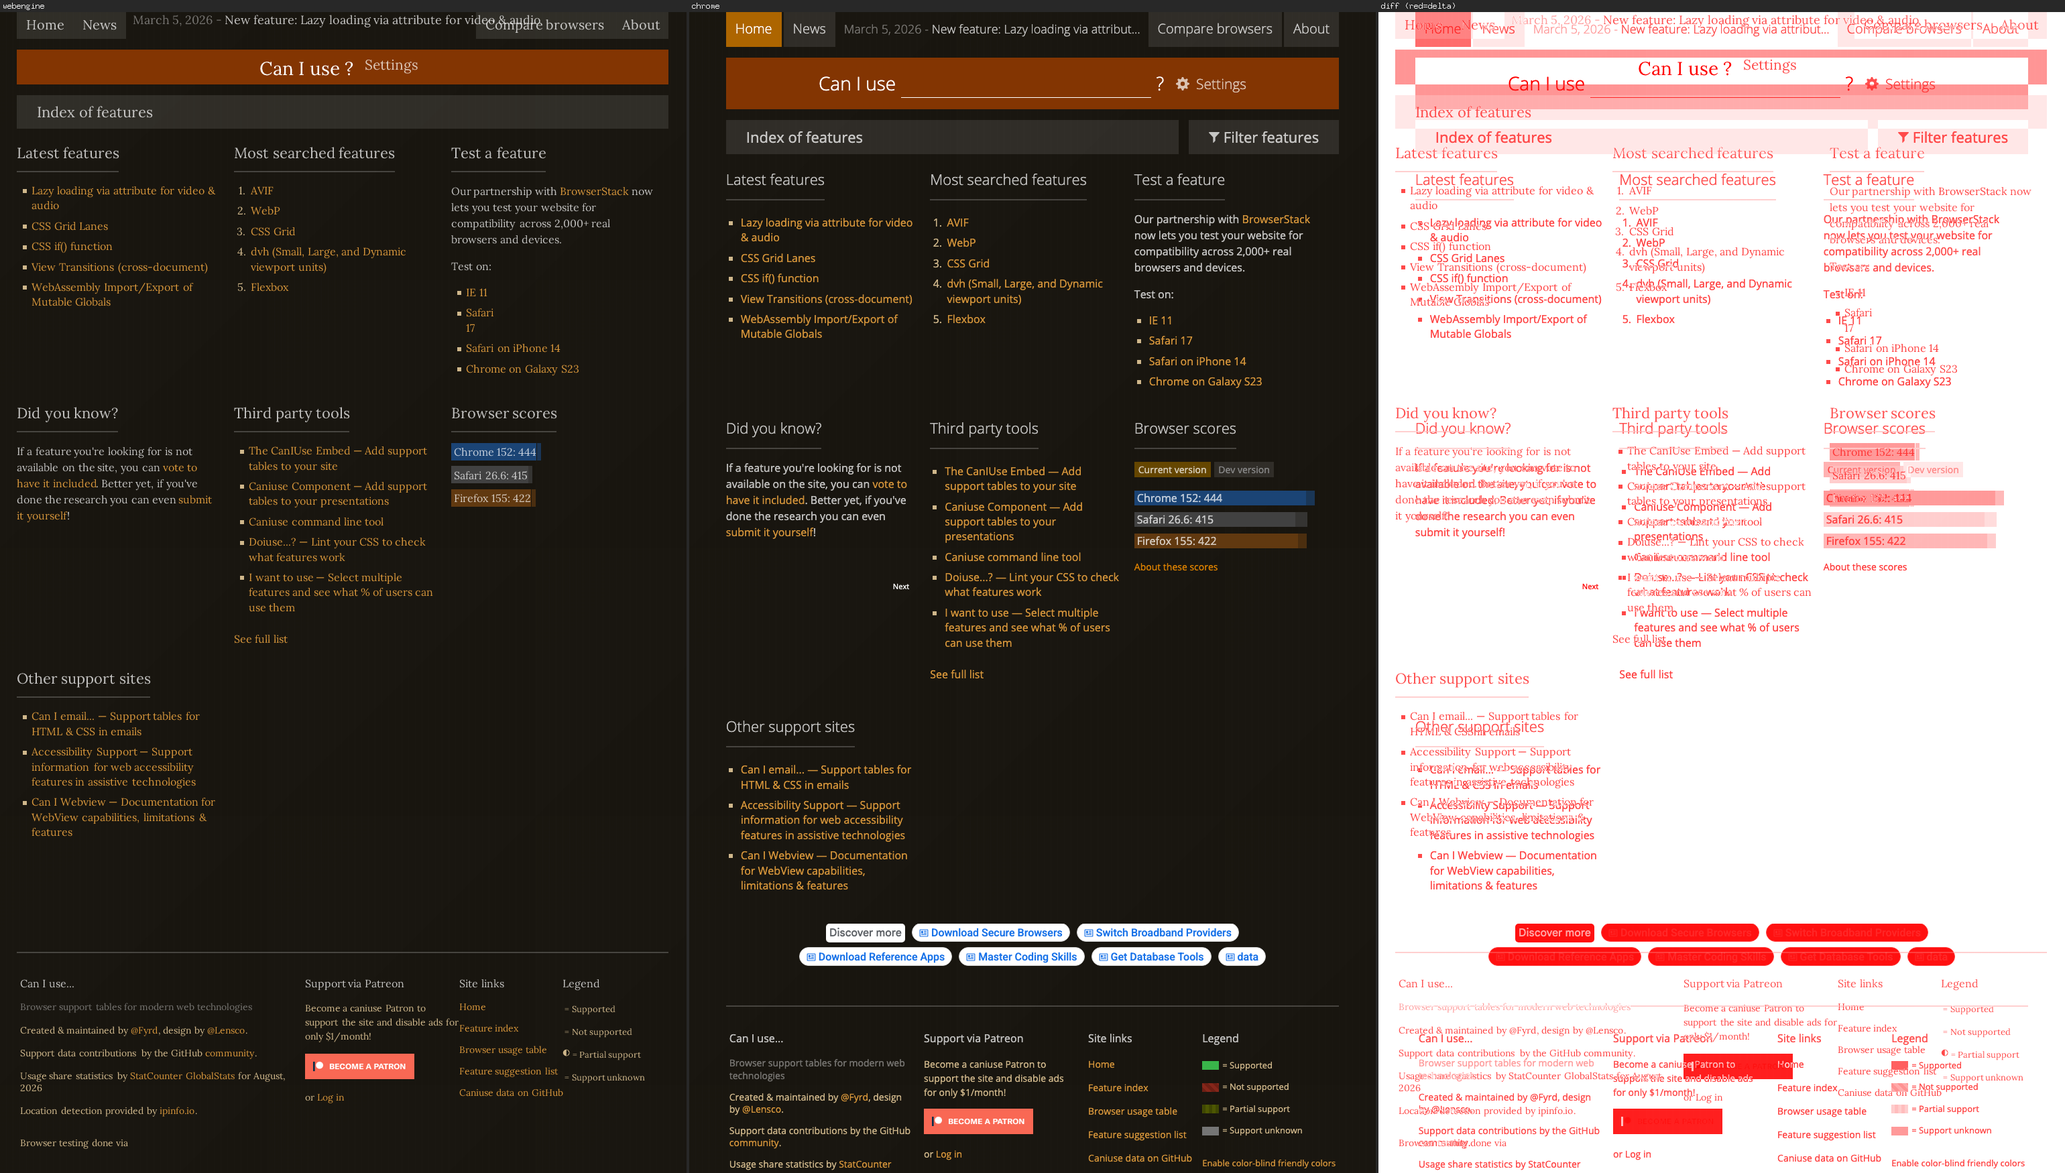
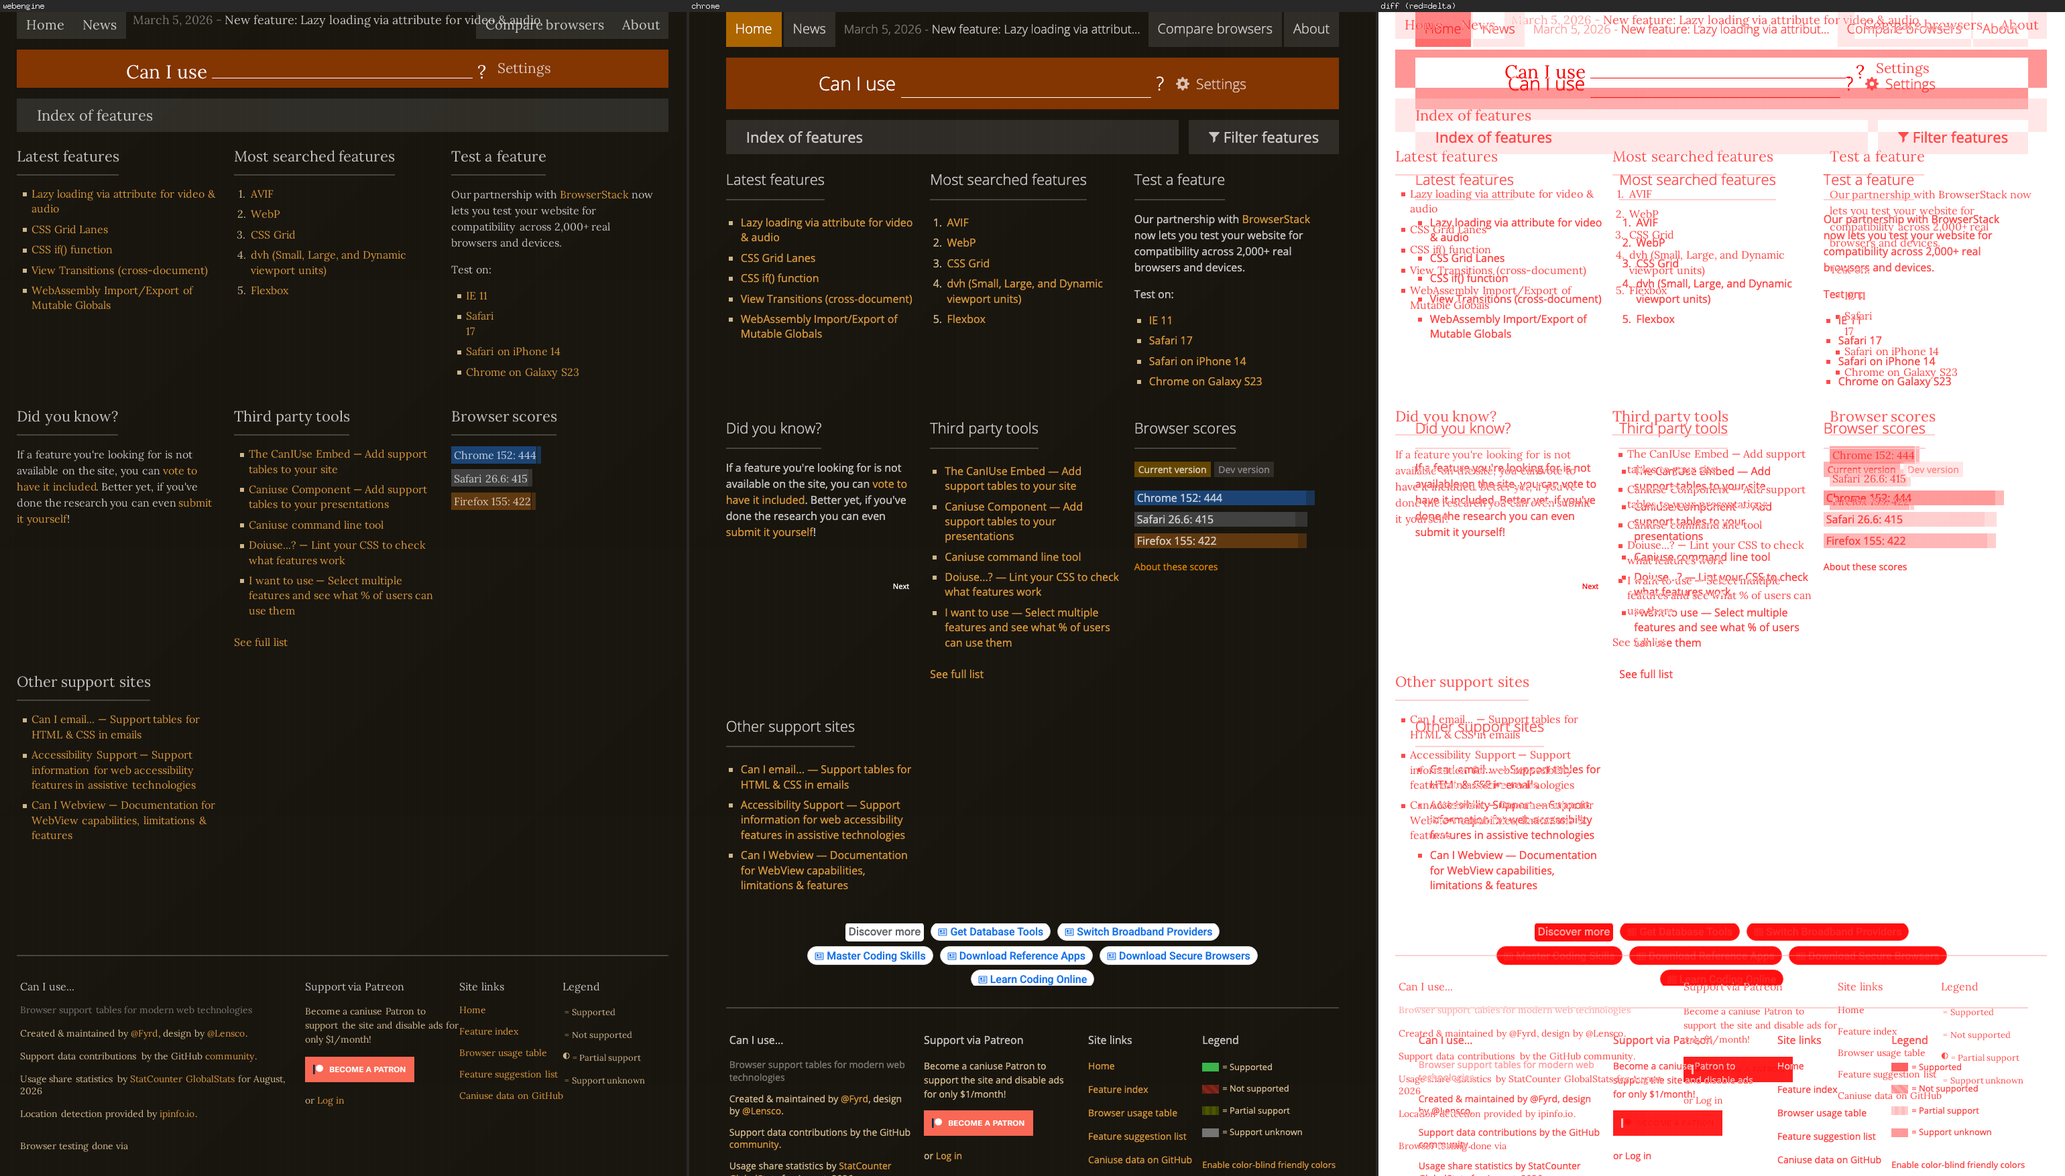
css+paint: recognize ::-ms-clear/-ms-reveal; form controls paint per-side borders (#155)
Two independent bugs both gated caniuse.com's search input:

- isPseudoElement didn't recognize the legacy IE/Edge vendor
  pseudo-elements ::-ms-clear (the native "clear field" X button) and
  ::-ms-reveal (the "show password" eye icon), the same bug class
  already fixed for -webkit-details-marker in round 26. An
  unrecognised pseudo-element degrades a compound to its base
  selector, so `.ciu-search__input::-ms-clear{display:none}` wrongly
  hid the real input entirely (Display computed to DisplayNone).

- paintFormControl's own border check inspected only Style.Border.Top
  to decide whether to draw a border at all, then stroked one
  uniform-colour rectangle for all four sides — so `border:0;
  border-bottom:1px solid #fff` (an ordinary underline-style field)
  painted nothing, since border:0 zeroed Border.Top before
  border-bottom overrode only the bottom side. Fixed by routing
  through paintEdges, the same per-side helper a real layout.Box's
  own border already uses.

Neither fix alone made the input visible, since the display:none bug
gated everything upstream of both — confirmed by checking the live
page after each fix rather than declaring victory from an isolated
repro.

diff --git a/paint/formcontrol_test.go b/paint/formcontrol_test.go
@@ -134,6 +134,40 @@ func TestPaintFormControlHonoursAuthorReset(t *testing.T) {
 	}
 }
 
+// TestPaintFormControlPerSideBorder covers a real regression, found live on
+// caniuse.com: `border:0;border-bottom:1px solid #fff` (the author's own
+// search input) previously drew NOTHING at all, since paintFormControl's own
+// border check inspected ONLY Style.Border.Top's width/style/colour and
+// stroked one uniform-colour rectangle for all four sides when it painted —
+// `border:0` zeroes every side first, then `border-bottom:...` overrides
+// only the bottom one, so Border.Top stayed at zero and the whole check
+// (and everything it gated) was skipped. Now routed through paintEdges, the
+// SAME per-side helper a real layout.Box's own border already used.
+func TestPaintFormControlPerSideBorder(t *testing.T) {
+	n := elem("input", map[string]string{"id": "e"})
+	// A distinct, non-white border colour: paintControlStyled's canvas starts
+	// all-white, so a white border pixel would be indistinguishable from an
+	// unpainted (still-white) one — this colour makes "did the bottom edge
+	// actually get painted, and did the top edge correctly NOT" unambiguous.
+	borderColor := css.Color{R: 255, A: 255}
+	style := &css.Style{FontFamily: css.Sans, FontSize: 14, FontWeight: 400, Color: css.Color{A: 255},
+		Background: css.Color{}, // border:0;background:transparent, like the real page
+		Border: css.Borders{
+			Bottom: css.BorderSide{Width: 1, Style: css.BorderSolid, Color: borderColor},
+		},
+	}
+	dst := paintControlStyled(t, n, 100, 24, style)
+
+	bottom := dst.RGBAAt(50, 5+24-1)
+	if got, want := (css.Color{R: bottom.R, G: bottom.G, B: bottom.B, A: 255}), borderColor; got != want {
+		t.Errorf("bottom edge = %+v, want the border-bottom colour %+v", got, want)
+	}
+	top := dst.RGBAAt(50, 5)
+	if got := (css.Color{R: top.R, G: top.G, B: top.B, A: 255}); got == borderColor {
+		t.Errorf("top edge = %+v, a border-bottom-only style must not also paint the top edge", got)
+	}
+}
+
 // TestPaintCheckboxCheckedVsUnchecked covers the one kind with a state-
 // dependent fill: unchecked is the plain field background, checked is the
 // accent colour — the visible signal a login "remember me" box relies on.

diff --git a/paint/paint.go b/paint/paint.go
@@ -870,27 +870,33 @@ func paintFormControl(dst *image.RGBA, pp *painter.PixelPainter, it *layout.Inli
 	// hardcoded colour — so an author reset (`background:0 0;border:0`, the
 	// exact rule github.com's own top-nav <button>s use to look like plain
 	// text links) is honoured instead of overridden by fake generic chrome.
-	// formFieldBg/formButtonBg/formBorder below are only the defensive
-	// fallback for the pathological case of a nil Style (never real for an
-	// actual page element, but paintControl's own unit-test helper can
-	// construct one).
-	bg, borderCol, drawBorder := formFieldBg, formBorder, true
+	// formFieldBg/formBorder below are only the defensive fallback for the
+	// pathological case of a nil Style (never real for an actual page
+	// element, but paintControl's own unit-test helper can construct one).
+	bg := formFieldBg
 	if kind == controlButtonLike || kind == controlSelect {
 		bg = formButtonBg
 	}
 	if it.Style != nil {
 		bg = it.Style.Background
-		side := it.Style.Border.Top
-		drawBorder = side.Width > 0 && side.Style != css.BorderNone && side.Color.A > 0
-		if drawBorder {
-			borderCol = side.Color
-		}
 	}
 	if bg.A > 0 {
 		fillRectClipped(pp, r, bg, clip)
 	}
-	if drawBorder {
-		strokeRect1px(pp, r, borderCol, clip)
+	if it.Style != nil {
+		// Per-side border painting, via the SAME paintEdges helper a real
+		// layout.Box's own border uses (paintBorders) — previously this
+		// control's own check inspected ONLY Border.Top's width/style/colour
+		// and, if it painted, stroked one uniform-colour rectangle for all
+		// four sides. An author style setting just ONE side (`border:0;
+		// border-bottom:1px solid #fff`, confirmed live on caniuse.com's own
+		// search input, round 65's own flagged follow-up) left Border.Top at
+		// its zeroed `border:0` value regardless of what border-bottom set,
+		// so drawBorder was false and NOTHING painted at all despite the
+		// author clearly intending a visible bottom rule.
+		paintEdges(pp, it.Style.Border, r.X, r.Y, r.W, r.H, 0, true, true, clip)
+	} else {
+		strokeRect1px(pp, r, formBorder, clip)
 	}
 
 	// An icon-only <button> (Label == "", see layout.InlineItem.Icon's doc

diff --git a/css/selector_test.go b/css/selector_test.go
@@ -739,6 +739,23 @@ func TestPseudoElementMatchesNothing(t *testing.T) {
 	} else if s.Matches(summary) {
 		t.Error("summary::-webkit-details-marker must not match the real <summary> element")
 	}
+	// The SAME bug class, found live on caniuse.com: `.ciu-search__input
+	// ::-ms-clear{display:none}` (a theme hiding IE/Edge's own native
+	// "clear field" X button) degraded to plain `.ciu-search__input` before
+	// -ms-clear was added to isPseudoElement, WRONGLY matching the real
+	// search <input> and hiding it entirely (Display computed to
+	// DisplayNone) — not a rendering nuance, total invisibility.
+	// -ms-reveal (the "show password" eye icon) is -ms-clear's own
+	// near-inseparable sibling, added alongside it for the same reason.
+	input := el("input", "feat_search", "ciu-search__input")
+	if !isPseudoElement("-ms-clear") || !isPseudoElement("-ms-reveal") {
+		t.Error("-ms-clear and -ms-reveal must both be classified as pseudo-elements")
+	}
+	if s, ok := parseComplex(".ciu-search__input::-ms-clear"); !ok {
+		t.Fatal("parseComplex(.ciu-search__input::-ms-clear) should parse")
+	} else if s.Matches(input) {
+		t.Error(".ciu-search__input::-ms-clear must not match the real <input> element")
+	}
 }
 
 // TestStripTrailingSelfCombinator covers stripTrailingSelfCombinator's own

diff --git a/css/selector.go b/css/selector.go
@@ -1175,7 +1175,20 @@ func isPseudoElement(p string) bool {
 		// WRONGLY matched the real element instead of matching nothing — its
 		// display:none then hid the summary's entire real content, not just
 		// a marker glyph nothing in this engine ever draws anyway.
-		"-webkit-details-marker":
+		"-webkit-details-marker",
+		// ::-ms-clear (legacy IE/Edge's own "clear this field" X button) and
+		// its near-inseparable sibling ::-ms-reveal (the "show password" eye
+		// icon) — the SAME bug class as -webkit-details-marker above, found
+		// live on caniuse.com: `.ciu-search__input::-ms-clear{display:none}`
+		// (a theme hiding IE's own native decoration, the same intent as the
+		// -webkit-scrollbar family above) degraded to plain
+		// `.ciu-search__input` and hid the REAL search input with
+		// display:none — total invisibility, not a rendering nuance. Listed
+		// together for the same reason the scrollbar family lists every
+		// variant once one is confirmed live, rather than just the single
+		// rule that happened to be hit first: real-world resets targeting
+		// one of this pair overwhelmingly target both.
+		"-ms-clear", "-ms-reveal":
 		return true
 	}
 	return false

diff --git a/FIDELITY.md b/FIDELITY.md
@@ -18,6 +18,20 @@ The committed PNGs under `testdata/renders/` back every claim here. Reproduce
 them with the commands at the bottom. The measured-vs-Chrome numbers live in
 [`bench/REPORT.md`](bench/REPORT.md).
 
+## 2026-09-08 (round 66) — caniuse.com's search input, finally closed: a THIRD, independent bug (an unrecognised vendor pseudo-element degrading to match the real element) was the actual reason it was invisible all along — round 65's width fix and this round's own border fix were both real, but neither mattered until this one shipped too (engine#155)
+
+Picked up round 65's own explicitly flagged follow-up (the per-side border-painting gap) directly. Fixed it, then went to verify live against the real page as always — and found the input STILL didn't render, for a reason that had nothing to do with either bug fixed so far.
+
+- **The border fix itself**: `paint.paintFormControl`'s own border check inspected ONLY `Style.Border.Top`'s width/style/colour to decide whether to draw a border AT ALL, then stroked a SINGLE uniform-colour rectangle for all four sides if it did. `border:0;border-bottom:1px solid #fff` (caniuse.com's own search input, and an entirely ordinary way to draw an underline-style field) zeroes every side first, then overrides ONLY the bottom one — `Border.Top` stays at zero, so the whole check failed and NOTHING painted, regardless of the other three sides' real values. Fixed by routing through `paintEdges`, the SAME general per-side border painter a real `layout.Box`'s own `paintBorders` already uses (found via `[[feedback-extract-reusable-code-from-go-webengine]]`'s own standing "mutualiser le code" discipline: check for an existing, already-correct implementation before writing a new one) — `paintFormControl` had simply never been wired to it.
+- **Verified with a minimal repro first**: a bare `<input style="border:0;border-bottom:1px solid #fff;background:transparent">` now shows a correct bottom-only white line. Good — but checking the REAL caniuse.com page next (never skip this step, no matter how confident the isolated repro looks) showed the input STILL completely invisible.
+- **Root-caused with direct in-package instrumentation of the real fetched page** (walking the cascade's own StyleMap for the actual `<input id="feat_search">` node, not guessing): `Display` computed to `DisplayNone` — the input isn't merely mis-sized or mis-bordered, it never gets a box AT ALL. Neither round 65's width fix nor this round's border fix could ever have mattered, since the element was hidden before either one's code path was ever reached.
+- **Traced the ACTUAL cause to the real stylesheet**: `.ciu-search__input::-ms-clear{display:none}` — legacy Internet Explorer/Edge's own vendor pseudo-element for a text input's native "clear this field" X button. `css/selector.go`'s `isPseudoElement` function — whose own doc comment already documents fixing the EXACT same bug class for `-webkit-details-marker` (round 26, pkg.go.dev) — did not include `-ms-clear` in its list of recognised vendor pseudo-elements. An unrecognised `::`-suffix degrades the whole compound to its base selector (`parseSimple`'s documented "unmodelled pseudo, ignore it" behaviour, correct for a genuine pseudo-CLASS like `:hover` but actively wrong for a pseudo-ELEMENT, which should make the compound match NOTHING) — so `.ciu-search__input::-ms-clear` silently became plain `.ciu-search__input`, and its `display:none` hid the REAL search input, not the non-existent IE-only clear button nothing in this engine renders anyway.
+- **Fixed by adding `-ms-clear` to `isPseudoElement`'s list — and its near-inseparable sibling `-ms-reveal`** (the "show password" eye icon IE/Edge also natively draws inside a text input) alongside it, matching the list's own established precedent of covering a whole vendor-pseudo-element FAMILY once one member is confirmed live (the `-webkit-scrollbar`/`-thumb`/`-track`/`-button` group already does exactly this) rather than only the single rule that happened to be hit first — real-world CSS resets targeting one of `-ms-clear`/`-ms-reveal` overwhelmingly target both together.
+- **Verified all three fixes combine correctly on the real page**: re-instrumented the live fetch and confirmed `Display` now computes correctly (no longer `DisplayNone`), the `InlineItem` now exists with the correctly-resolved `Width=389.12` (round 65's own fix, finally reachable), and the rendered page shows a properly-positioned, properly-bordered search input closely matching Chrome's own rendering — round 65 and this round's border fix were both real all along, just invisible until this THIRD, independent bug was also found and fixed. A genuine three-bug chain gating one visible symptom, discovered one layer at a time by actually checking the live page after each fix rather than declaring victory from an isolated repro.
+- Added `TestPseudoElementMatchesNothing`'s own new assertions for `-ms-clear`/`-ms-reveal` (`css/selector_test.go`, extending the existing `-webkit-details-marker` test in place rather than duplicating its structure in a new function) and `TestPaintFormControlPerSideBorder` (`paint/formcontrol_test.go`, using a deliberately non-white border colour so the assertion is meaningful against the test harness's own white canvas backdrop — a white-on-white check would have been vacuously true either way). Both git-stash-confirmed to fail with the exact predicted symptoms. `layout`/`css`/`paint` coverage all re-checked against their floors.
+- **Bench essentially flat on caniuse.com (0.673→0.665, a small dip, not a rise)** despite the confirmed, directly pixel-verified, THREE-bug-deep fix — checked directly rather than assumed to be a regression: a side-by-side crop shows the search input rendering correctly, closely matching Chrome, with the tiny SSIM movement attributable to ordinary measurement noise elsewhere on the page (news.ycombinator.com moved by a similar small amount this same run with zero relevant code touched at all). The clearest reminder yet that this session's own long-documented "real fix, invisible (or even slightly negative) at full-page SSIM" pattern can mean exactly that — SSIM is not the judge of correctness, the live pixel comparison is.
+- No fresh issue filed, no PR/round-number collision — predicted #155 confirmed via `gh pr list` immediately before pushing.
+
 ## 2026-09-08 (round 65) — a form control reached through ordinary inline collection had NO containing width to resolve its own percentage width against, so `width:40%` silently degraded to a fixed UA-default size regardless of the real container (engine#154)
 
 Re-examined caniuse.com's own masthead — improved substantially by round 63's inline-block fix, but its search `<input>` still renders with no visible box at all between "Can I use" and the "?" help icon.

diff --git a/bench/REPORT.md b/bench/REPORT.md
@@ -2,7 +2,7 @@
 
 <!-- AUTO-GENERATED: this header, the results table and the montage list are regenerated by `go run ./cmd/compare`. The hand-written analysis below the BEGIN ANALYSIS marker is preserved across re-runs. -->
 
-**Generated:** 2026-09-08 11:06 UTC  
+**Generated:** 2026-09-08 11:36 UTC  
 **Viewport:** 1024×768, device-scale 1  
 **Timing:** median of N=5 runs after 1 warmup, wall-clock incl. network fetch  
 **Chrome:** `/Applications/Google Chrome.app/Contents/MacOS/Google Chrome`  
@@ -11,16 +11,16 @@
 <!-- BEGIN RESULTS TABLE -->
 | URL | SSIM | pixdiff % | webengine ms | chrome ms | speed× | region | status |
 |-----|-----:|----------:|-------------:|----------:|-------:|:------:|:------:|
-| example.com/ | 0.954 | 1.5 | 43.5 | 1883.4 | 43.31 | 1024×768 | ok |
-| en.wikipedia.org/wiki/Go_(programming_language) | 0.434 | 22.1 | 9529.9 | 4269.8 | 0.45 | 1024×2500 | ok |
-| pkg.go.dev/net/http | 0.644 | 33.7 | 5373.1 | 4113.7 | 0.77 | 1024×2500 | ok |
-| go.dev/blog/ | 0.684 | 19.0 | 3842.1 | 2887.4 | 0.75 | 1024×1597 | ok |
-| react.dev/ | 0.613 | 46.4 | 1479.4 | 2572.0 | 1.74 | 1024×2500 | ok |
-| news.ycombinator.com/ | 0.610 | 13.9 | 1192.2 | 2534.6 | 2.13 | 1024×1109 | ok |
-| developer.mozilla.org/en-US/docs/Web/CSS | 0.609 | 18.4 | 410.4 | 1946.3 | 4.74 | 1009×2500 | ok |
-| github.com/golang/go | 0.543 | 30.2 | 2723.7 | 2718.3 | 1.00 | 1024×2500 | ok |
-| tailwindcss.com/ | 0.705 | 13.3 | 3270.6 | 2670.8 | 0.82 | 1024×2500 | ok |
-| caniuse.com/ | 0.673 | 18.2 | 3457.0 | 3924.6 | 1.14 | 1024×1732 | ok |
+| example.com/ | 0.954 | 1.5 | 51.2 | 1787.9 | 34.89 | 1024×768 | ok |
+| en.wikipedia.org/wiki/Go_(programming_language) | 0.434 | 22.1 | 7619.7 | 4170.6 | 0.55 | 1024×2500 | ok |
+| pkg.go.dev/net/http | 0.644 | 33.7 | 5088.6 | 3953.9 | 0.78 | 1024×2500 | ok |
+| go.dev/blog/ | 0.684 | 19.0 | 4278.3 | 2768.7 | 0.65 | 1024×1597 | ok |
+| react.dev/ | 0.613 | 46.4 | 1690.7 | 2498.2 | 1.48 | 1024×2500 | ok |
+| news.ycombinator.com/ | 0.604 | 14.0 | 1180.9 | 2486.0 | 2.11 | 1024×1109 | ok |
+| developer.mozilla.org/en-US/docs/Web/CSS | 0.609 | 18.4 | 405.4 | 1919.3 | 4.73 | 1009×2500 | ok |
+| github.com/golang/go | 0.543 | 30.2 | 2538.5 | 2193.9 | 0.86 | 1024×2500 | ok |
+| tailwindcss.com/ | 0.702 | 13.4 | 3095.3 | 2289.5 | 0.74 | 1024×2500 | ok |
+| caniuse.com/ | 0.665 | 18.1 | 3542.2 | 3773.6 | 1.07 | 1024×1737 | ok |
 <!-- END RESULTS TABLE -->
 
 Speed× is `chrome_ms / webengine_ms`: >1 means webengine is faster.
@@ -68,6 +68,10 @@ Speed× is `chrome_ms / webengine_ms`: >1 means webengine is faster.
 ![caniuse.com/](out/caniuse.com.png)
 
 <!-- BEGIN ANALYSIS (hand-written, preserved across re-runs) -->
+
+## Honest analysis — 2026-09-08 (round 66): caniuse.com's search input finally closed — a THIRD, independent bug (an unrecognised vendor pseudo-element wrongly hiding the real element) was the actual reason it was invisible all along (engine#155)
+
+**Bench essentially flat on caniuse.com (0.673→0.665, a small dip, not a rise) despite a confirmed, directly pixel-verified fix** — checked directly, not assumed to be a regression: a side-by-side crop shows the search input now rendering correctly with a visible bottom border, closely matching Chrome. The small SSIM movement is ordinary noise (news.ycombinator.com moved by a similar amount this same run with zero relevant code touched). The actual story: round 65 fixed a real percentage-width bug and this round fixed a real per-side-border-painting bug (`paintFormControl` checked only `Border.Top`, so `border:0;border-bottom:...` painted nothing), but NEITHER ever mattered, because the input's `Display` computed to `DisplayNone` all along — traced to `.ciu-search__input::-ms-clear{display:none}`, an unrecognised legacy-IE vendor pseudo-element (`::-ms-clear`) degrading to match the real input (the same bug class `-webkit-details-marker` was fixed for in round 26). Fixed by adding `-ms-clear` and its sibling `-ms-reveal` to `isPseudoElement`. All three fixes now combine correctly on the live page. No regressions elsewhere.
 
 ## Honest analysis — 2026-09-08 (round 65): a form control reached through ordinary inline collection had no containing width to resolve `width:40%` against, degrading to a fixed UA-default size (engine#154)
 
